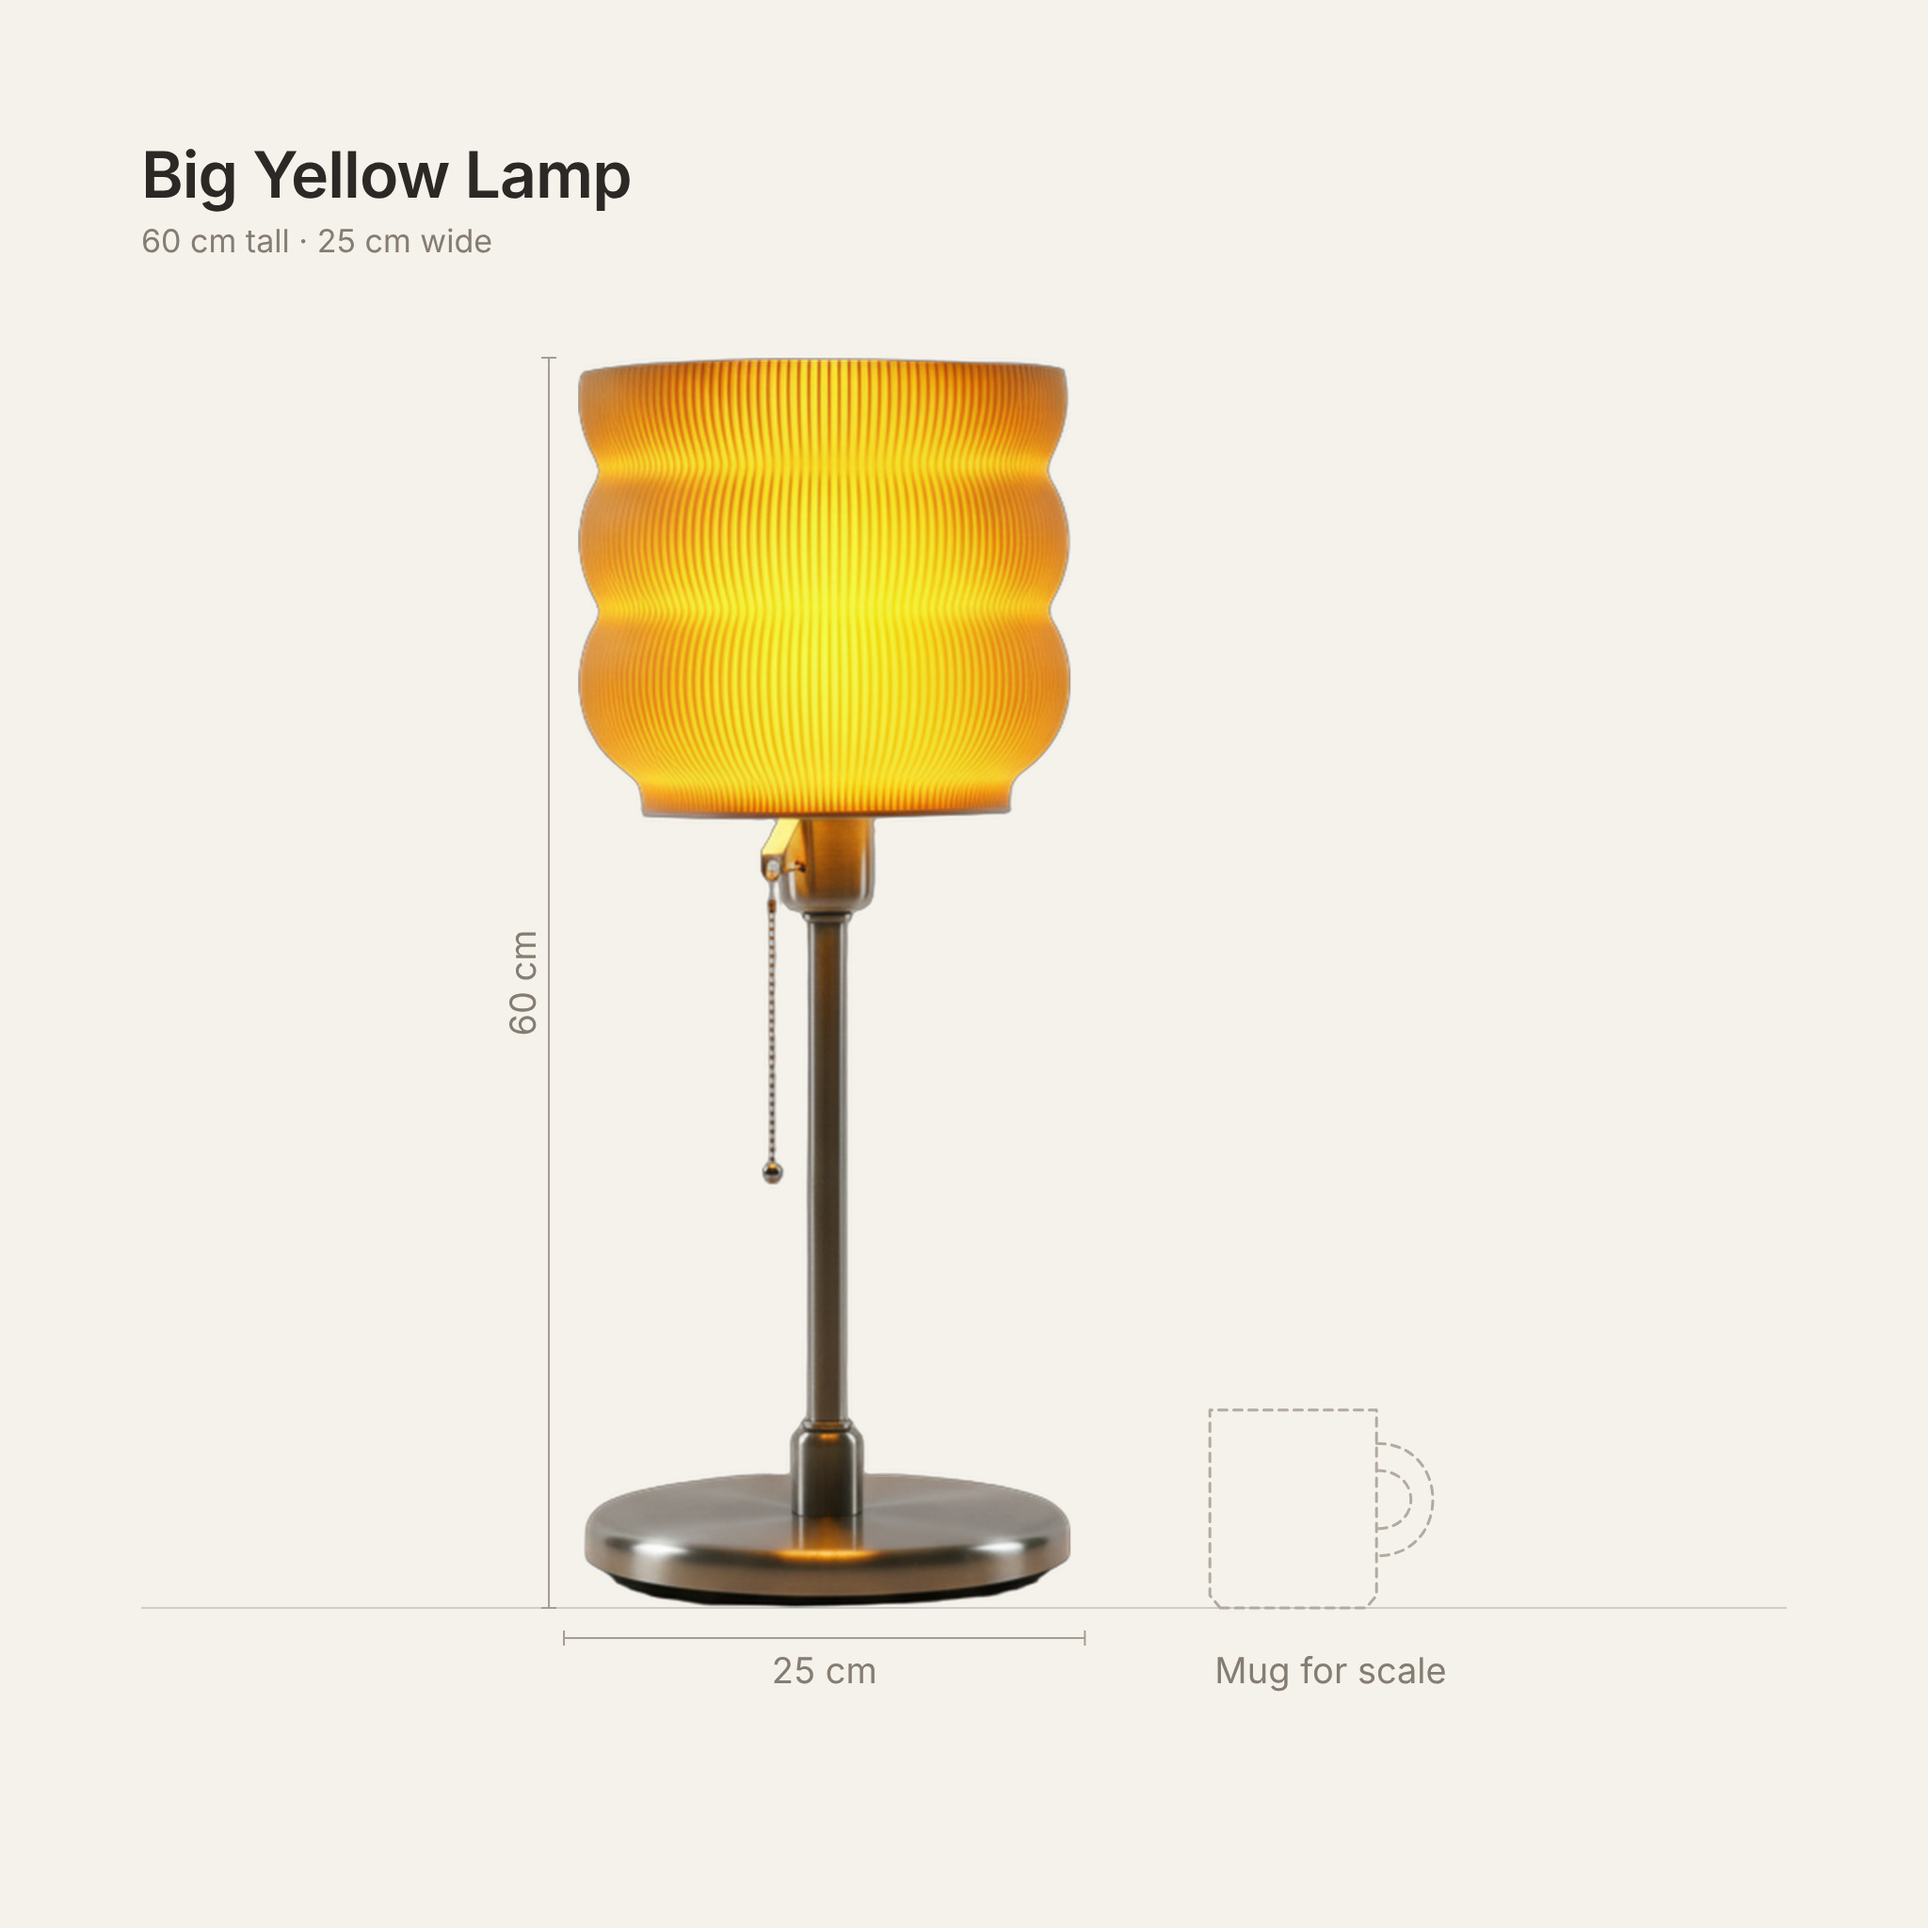
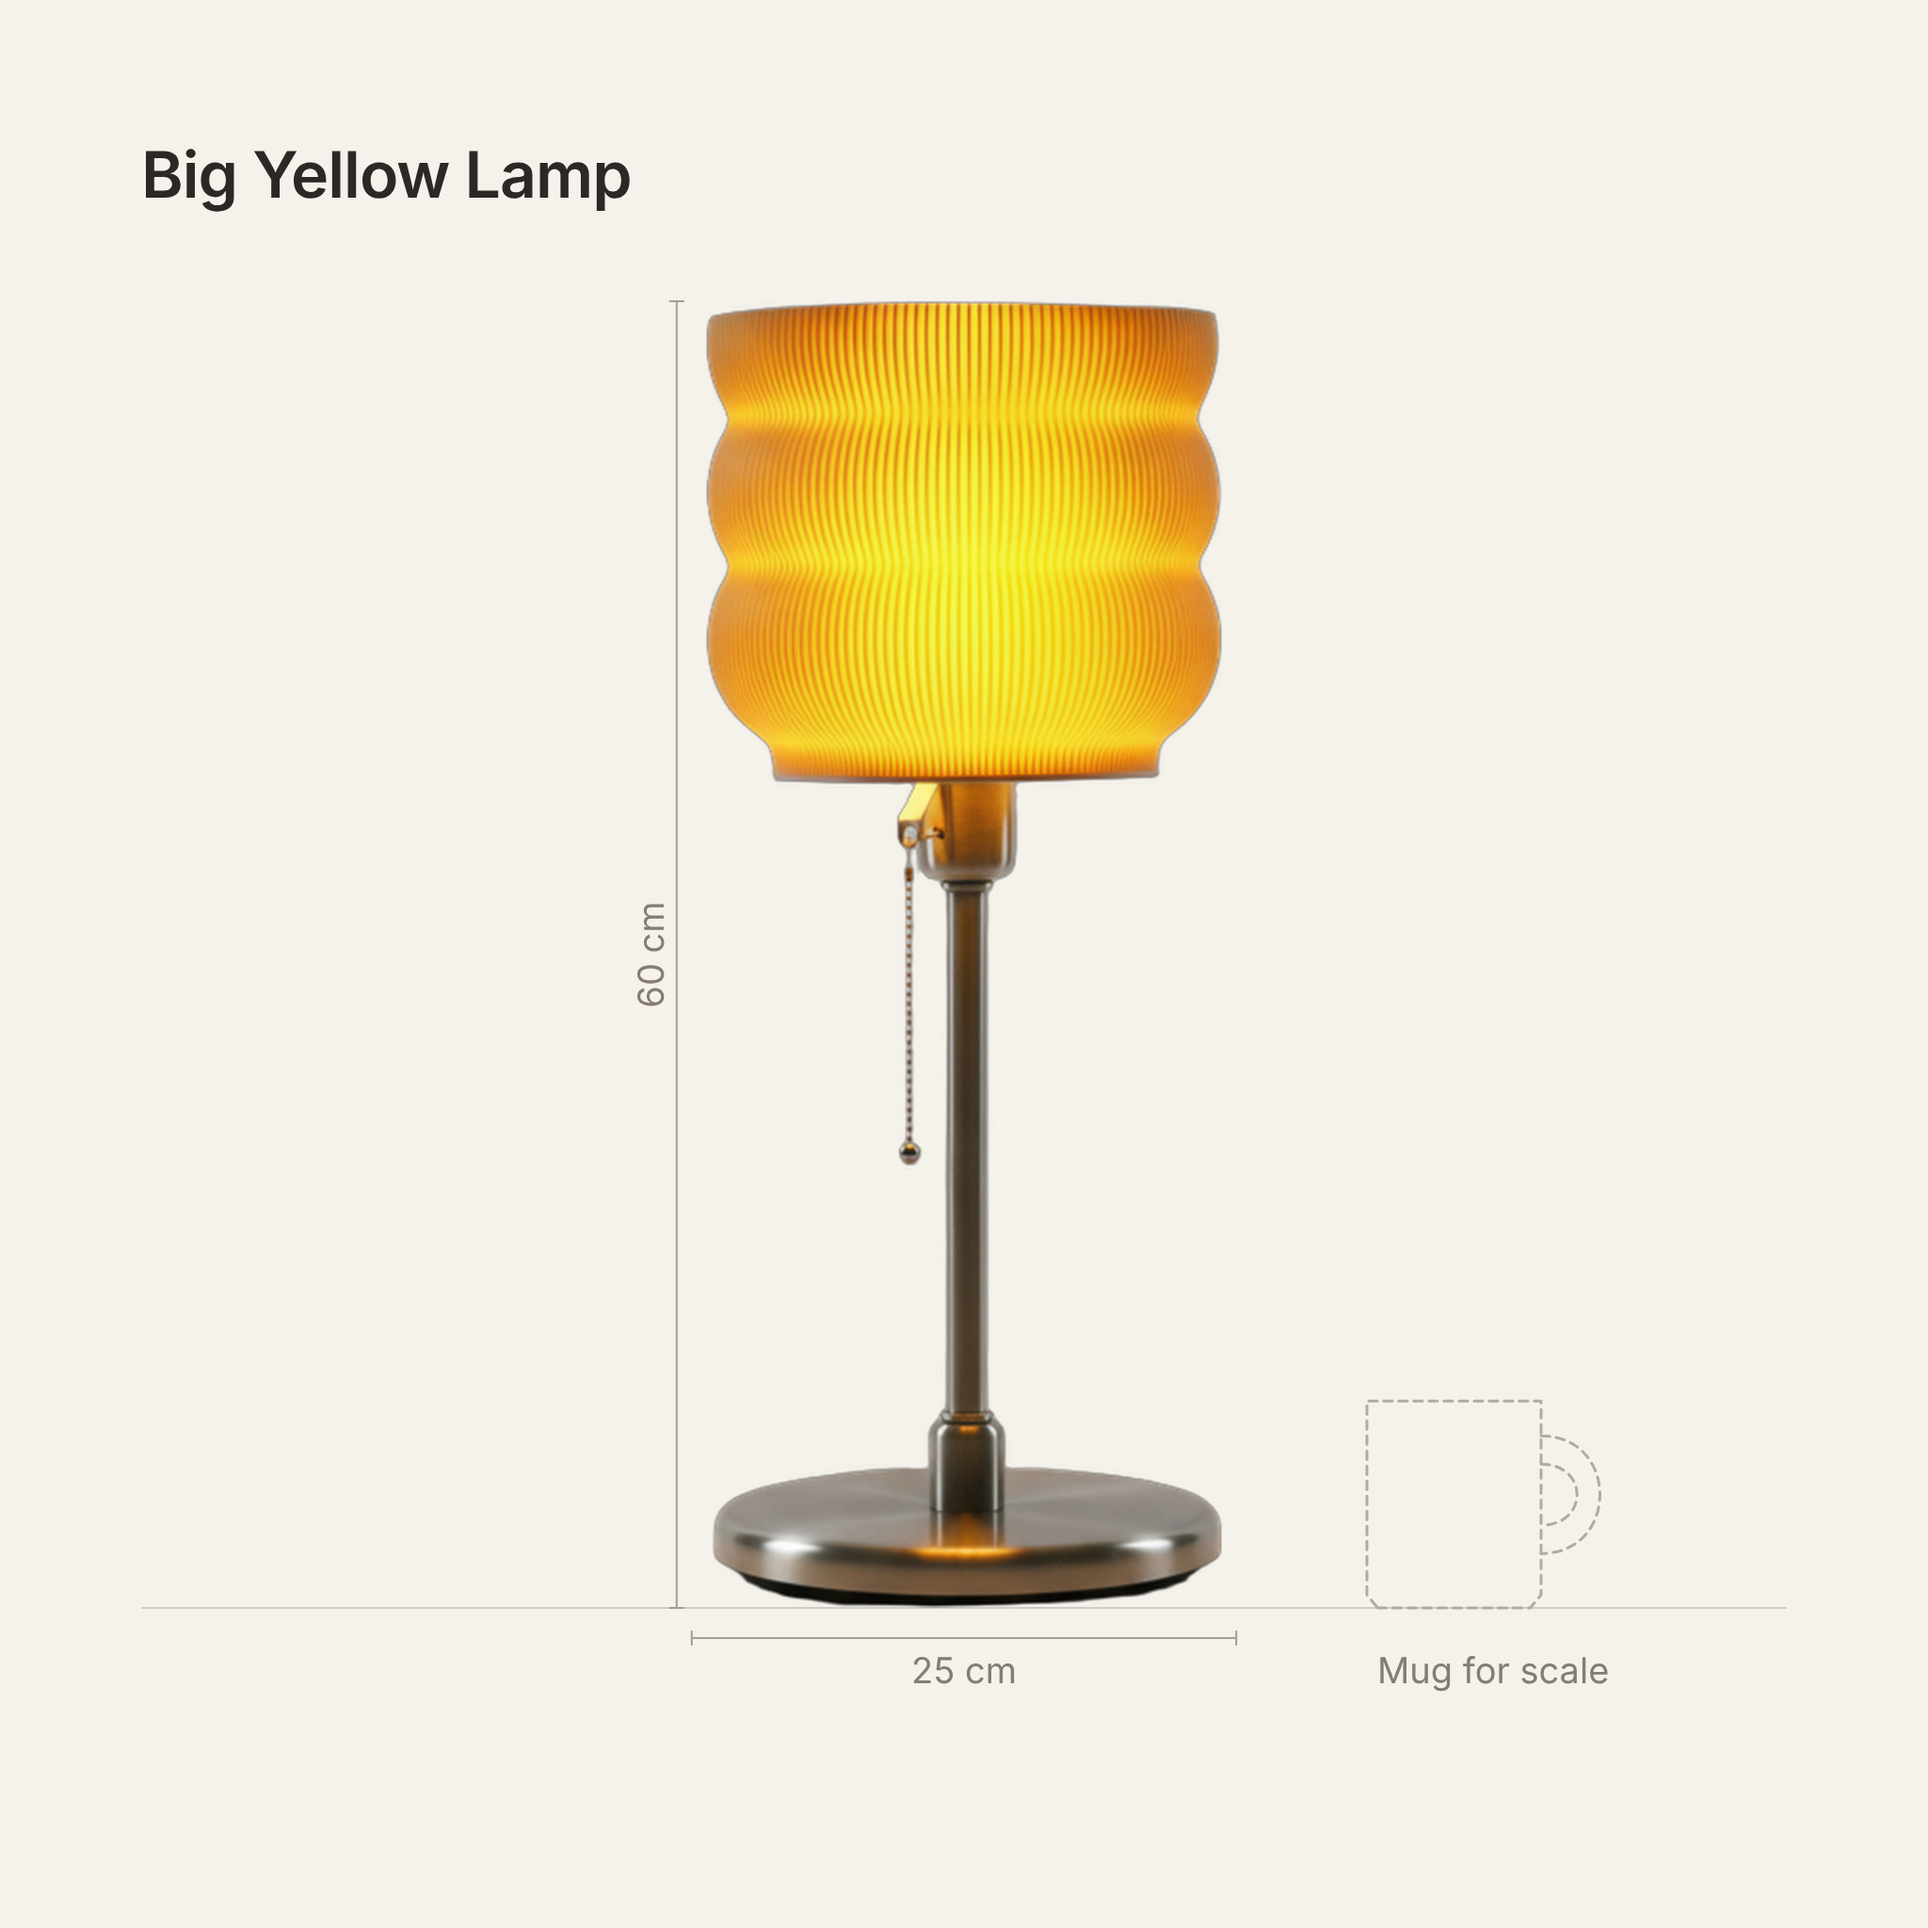
Big Yellow size image: centre lamp, remove repeated dimensions
Claude-Session: https://claude.ai/code/session_01DdiNAaQ1sSSiURw1iZ4bfB

diff --git a/lamp-size-guide/make_size_guide.py b/lamp-size-guide/make_size_guide.py
@@ -185,13 +185,13 @@ def single(name, img, H, W, sub="", pendant=False, size=2048):
     it = Item(name, sub, img, H, W, pendant)
     mug = Item("Mug", "", None, 9.5, 8)
     m = 150
-    S = min((size - 2*m - 420) / H, (size - 2*m - 300) / (it.width_cm() + mug.width_cm() + 10))
+    # lamp centred; the mug sits to its right and must still fit inside the margin
+    S = min((size - 2*m - 360) / H, (size/2 - m - 40) / (it.width_cm()/2 + 6 + mug.width_cm()))
     lamp_w = it.width_cm() * S
-    group = RES*S + lamp_w + 6*S + mug.width_cm()*S
-    left = (size - group) / 2
+    left = size/2 - lamp_w/2 - RES*S
     base = size - m - 190 if not pendant else None
     o = [f'<text x="{m}" y="{m+60}" font-size="68" font-weight="600" fill="{INK}" letter-spacing="-1">{name}</text>',
-         f'<text x="{m}" y="{m+118}" font-size="34" fill="{SUB}">{fmt(H)} tall · {fmt(W)} wide</text>']
+]
     if pendant:
         ceiling = m + 230; hang = size - m - 190 - H*S
         o.append(f'<line x1="{m}" y1="{ceiling}" x2="{size-m}" y2="{ceiling}" stroke="{INK}" stroke-opacity="0.18" stroke-width="2"/>')
